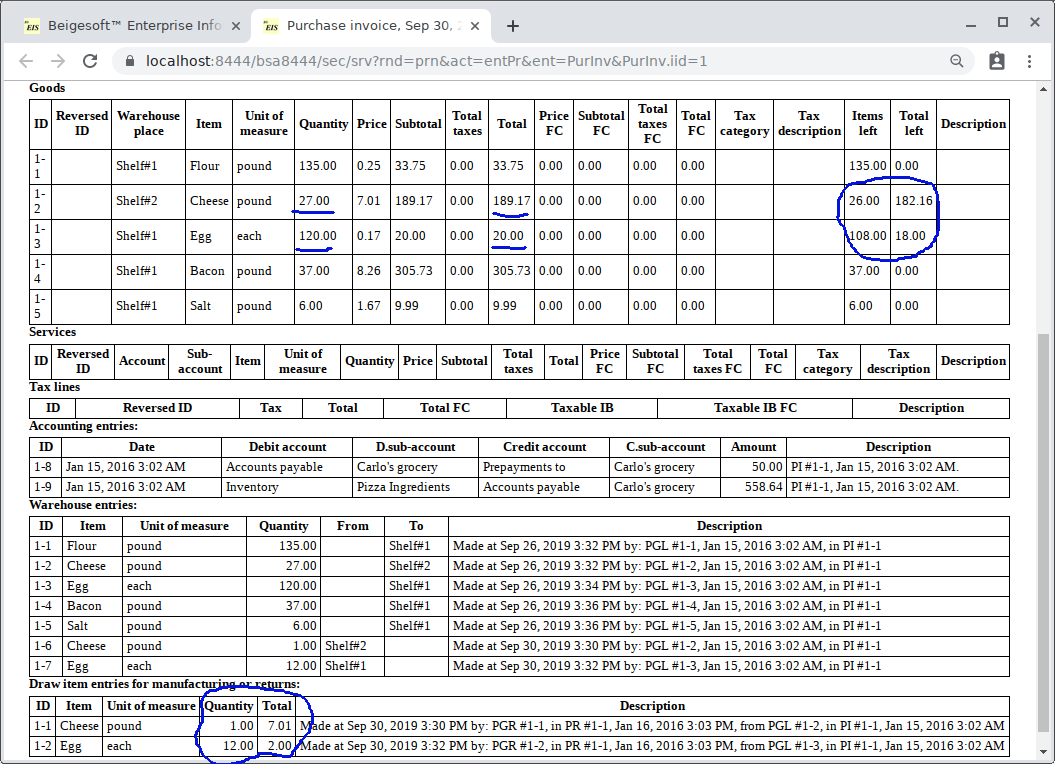
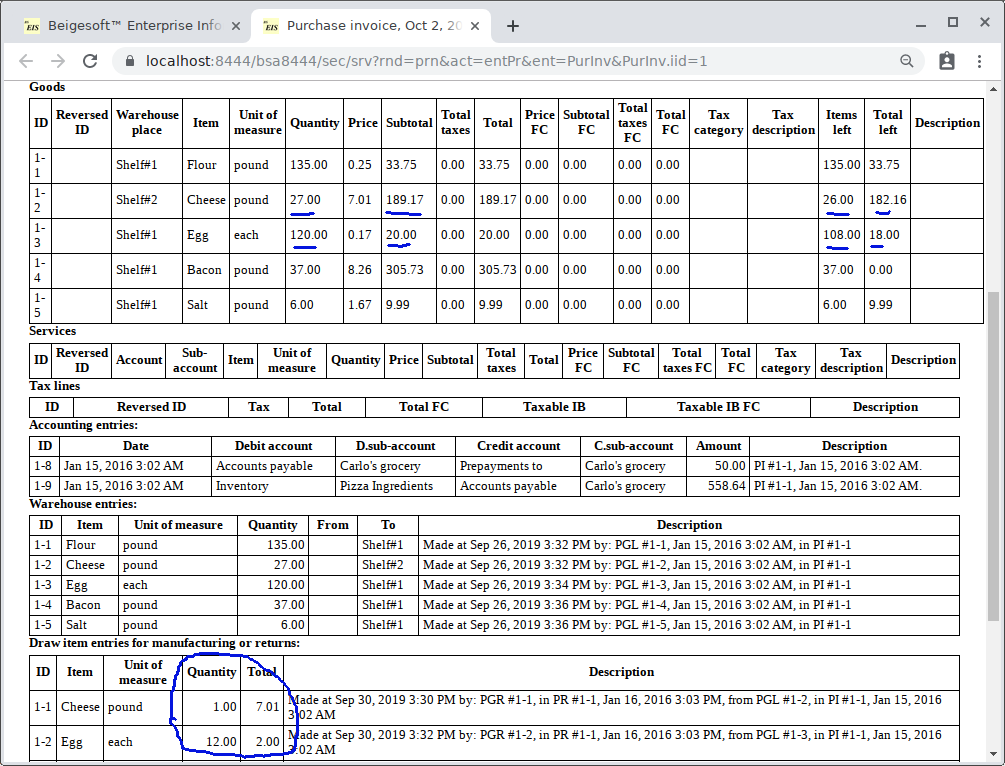
fixed using cost decimal places, docs s5

Changed region(s): [[0.0, 0.0903, 1.0, 1.0], [0.0308, 0.0, 0.7095, 0.0903], [0.8945, 0.0602, 0.9562, 0.0903]]

diff --git a/src/main/java/org/beigesoft/acc/prc/EntrSv.java b/src/main/java/org/beigesoft/acc/prc/EntrSv.java
@@ -155,7 +155,7 @@ public class EntrSv<RS> implements IPrcEnt<Entr, Long> {
       if (pEnt.getAcDb() == null && pEnt.getAcCr() == null) {
         throw new ExcCode(ExcCode.WRPR, "account_is_null");
       }
-      pEnt.setDebt(pEnt.getDebt().setScale(astg.getCsDp(), astg.getRndm()));
+      pEnt.setDebt(pEnt.getDebt().setScale(astg.getPrDp(), astg.getRndm()));
       if (pEnt.getAcCr() != null) {
         pEnt.setCred(pEnt.getDebt());
       }
@@ -208,9 +208,9 @@ public class EntrSv<RS> implements IPrcEnt<Entr, Long> {
       tots[1] = 0.0;
     }
     doc.setDebt(BigDecimal.valueOf(tots[0])
-      .setScale(astg.getCsDp(), astg.getRndm()));
+      .setScale(astg.getPrDp(), astg.getRndm()));
     doc.setCred(BigDecimal.valueOf(tots[1])
-      .setScale(astg.getCsDp(), astg.getRndm()));
+      .setScale(astg.getPrDp(), astg.getRndm()));
     getOrm().update(pRvs, vs, doc);
     getSrBlnc().hndNewEntr(pRvs, pEnt.getDat());
     UvdVar uvs = (UvdVar) pRvs.get("uvs");

diff --git a/src/main/java/org/beigesoft/acc/srv/SrEntr.java b/src/main/java/org/beigesoft/acc/srv/SrEntr.java
@@ -184,7 +184,7 @@ public class SrEntr<RS> implements ISrEntr {
             entr.setSadTy(rs.getInt("SADTY"));
             Double debt = rs.getDouble("DEBT");
             entr.setDebt(BigDecimal.valueOf(debt)
-              .setScale(as.getCsDp(), as.getRndm()));
+              .setScale(as.getPrDp(), as.getRndm()));
           }
           String acCrs = rs.getStr("ACCR");
           if (acCrs !=  null) {
@@ -196,7 +196,7 @@ public class SrEntr<RS> implements ISrEntr {
             entr.setSacTy(rs.getInt("SACTY"));
             Double cred = rs.getDouble("CRED");
             entr.setCred(BigDecimal.valueOf(cred)
-              .setScale(as.getCsDp(), as.getRndm()));
+              .setScale(as.getPrDp(), as.getRndm()));
           }
           entr.setDscr(getI18n().getMsg(pDoc.getClass().getSimpleName() + "sht",
         cpf.getLngDef().getIid()) + " #" + pDoc.getDbOr() + "-" + pDoc.getIid()

diff --git a/src/main/java/org/beigesoft/acc/prc/MnpMcsSv.java b/src/main/java/org/beigesoft/acc/prc/MnpMcsSv.java
@@ -142,12 +142,12 @@ String qu = "select sum(TOT) as TOT from DRITENR where RVID is null and DOWID="
       }
       AcStg as = (AcStg) pRvs.get("astg");
       pEnt.getOwnr().setMaCs(BigDecimal.valueOf(tot)
-        .setScale(as.getCsDp(), as.getRndm()));
+        .setScale(as.getPrDp(), as.getRndm()));
       pEnt.getOwnr().setTot(pEnt.getOwnr().getMaCs().add(pEnt.getOwnr()
-        .getAdCs()).setScale(as.getCsDp(), as.getRndm()));
+        .getAdCs()).setScale(as.getPrDp(), as.getRndm()));
       pEnt.getOwnr().setToLf(pEnt.getOwnr().getTot());
       pEnt.getOwnr().setPri(pEnt.getOwnr().getTot()
-        .divide(pEnt.getOwnr().getQuan(), as.getCsDp(), as.getRndm()));
+        .divide(pEnt.getOwnr().getQuan(), as.getPrDp(), as.getRndm()));
       String[] upFds = new String[] {"maCs", "tot", "pri", "toLf", "ver"};
       Arrays.sort(upFds);
       vs.put("ndFds", upFds);

diff --git a/src/main/java/org/beigesoft/acc/prc/MnpAcsSv.java b/src/main/java/org/beigesoft/acc/prc/MnpAcsSv.java
@@ -145,12 +145,12 @@ public class MnpAcsSv<RS> implements IPrcEnt<MnpAcs, Long> {
     }
     AcStg as = (AcStg) pRvs.get("astg");
     pEnt.getOwnr().setAdCs(BigDecimal.valueOf(tot)
-      .setScale(as.getCsDp(), as.getRndm()));
+      .setScale(as.getPrDp(), as.getRndm()));
     pEnt.getOwnr().setTot(pEnt.getOwnr().getMaCs().add(pEnt.getOwnr()
-      .getAdCs()).setScale(as.getCsDp(), as.getRndm()));
+      .getAdCs()).setScale(as.getPrDp(), as.getRndm()));
     pEnt.getOwnr().setToLf(pEnt.getOwnr().getTot());
     pEnt.getOwnr().setPri(pEnt.getOwnr().getTot()
-      .divide(pEnt.getOwnr().getQuan(), as.getCsDp(), as.getRndm()));
+      .divide(pEnt.getOwnr().getQuan(), as.getPrDp(), as.getRndm()));
     String[] upFds = new String[] {"adCs", "tot", "pri", "toLf", "ver"};
     Arrays.sort(upFds);
     vs.put("ndFds", upFds);

diff --git a/src/main/java/org/beigesoft/acc/prc/MnfPrcSv.java b/src/main/java/org/beigesoft/acc/prc/MnfPrcSv.java
@@ -200,7 +200,7 @@ public class MnfPrcSv implements IPrcEnt<MnfPrc, Long> {
         }
         AcStg as = (AcStg) pRvs.get("astg");
         pEnt.setPri(pEnt.getTot().divide(pEnt.getQuan(),
-          as.getCsDp(), as.getRndm()));
+          as.getPrDp(), as.getRndm()));
         if ("mkEnr".equals(pRqDt.getParam("acAd"))) {
           if (old.getTot().compareTo(BigDecimal.ZERO) == 0) {
             throw new ExcCode(ExcCode.WRPR, "amount_eq_zero");

diff --git a/src/main/java/org/beigesoft/acc/prc/ItAdLnSv.java b/src/main/java/org/beigesoft/acc/prc/ItAdLnSv.java
@@ -141,7 +141,7 @@ String qu = "select sum(TOT) as TOT from ITADLN where RVID is null and OWNR="
       }
       AcStg as = (AcStg) pRvs.get("astg");
       pEnt.getOwnr().setTot(BigDecimal.valueOf(tot)
-        .setScale(as.getCsDp(), as.getRndm()));
+        .setScale(as.getPrDp(), as.getRndm()));
       String[] upFds = new String[] {"tot", "ver"};
       Arrays.sort(upFds);
       vs.put("ndFds", upFds);

diff --git a/src/main/java/org/beigesoft/acc/prc/MnfctSv.java b/src/main/java/org/beigesoft/acc/prc/MnfctSv.java
@@ -127,7 +127,7 @@ public class MnfctSv implements IPrcEnt<Mnfct, Long> {
             .setScale(as.getPrDp(), as.getRndm()));
       }
       pEnt.setPri(pEnt.getTot().divide(pEnt.getQuan(),
-        as.getCsDp(), as.getRndm()));
+        as.getPrDp(), as.getRndm()));
       pEnt.setToLf(pEnt.getTot());
       if (pEnt.getIsNew()) {
         if ("mkEnr".equals(pRqDt.getParam("acAd"))) {
